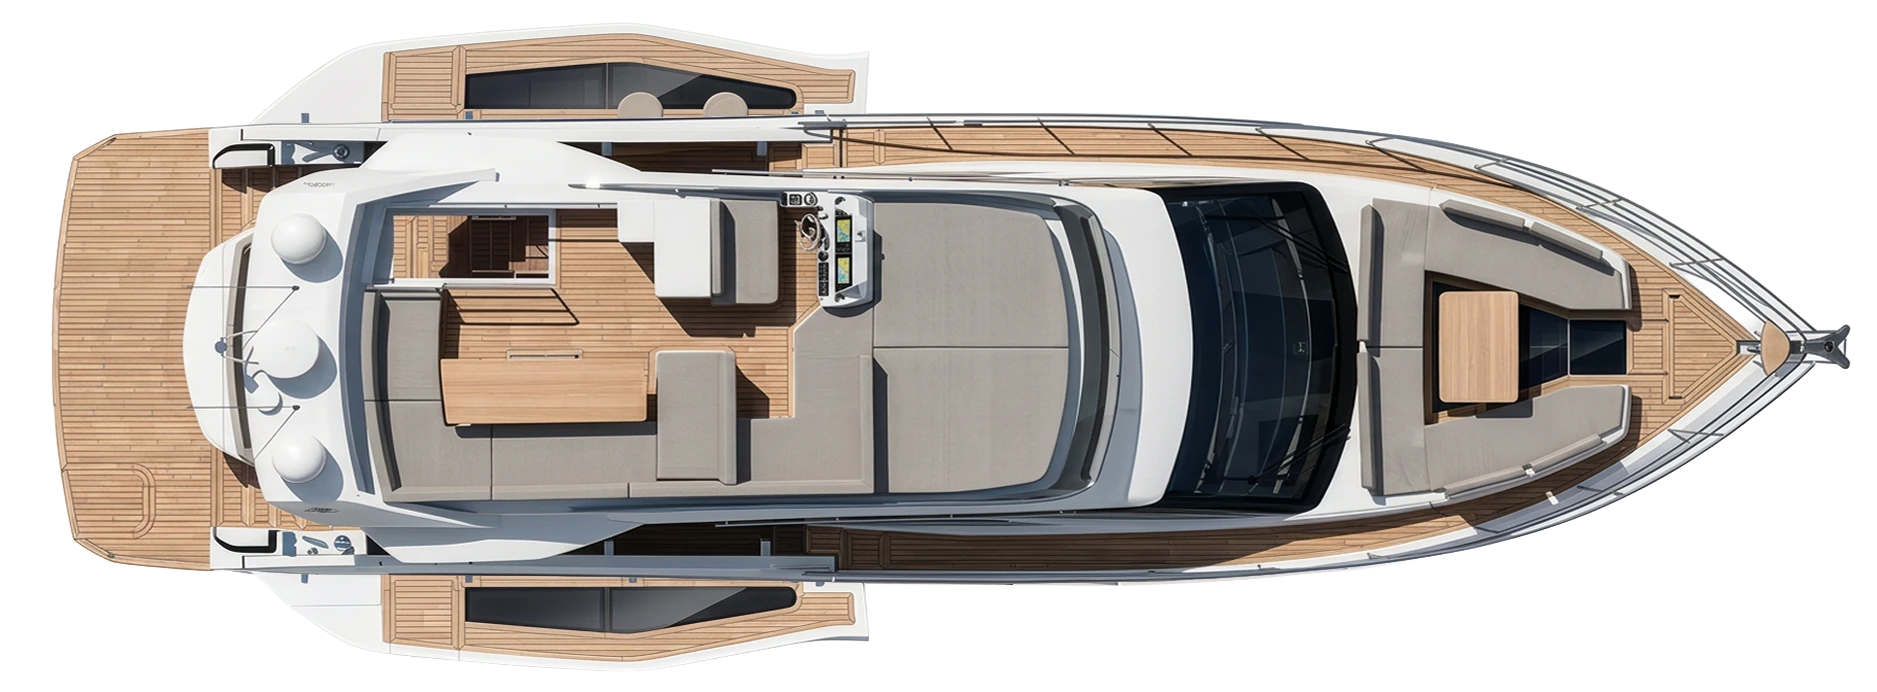
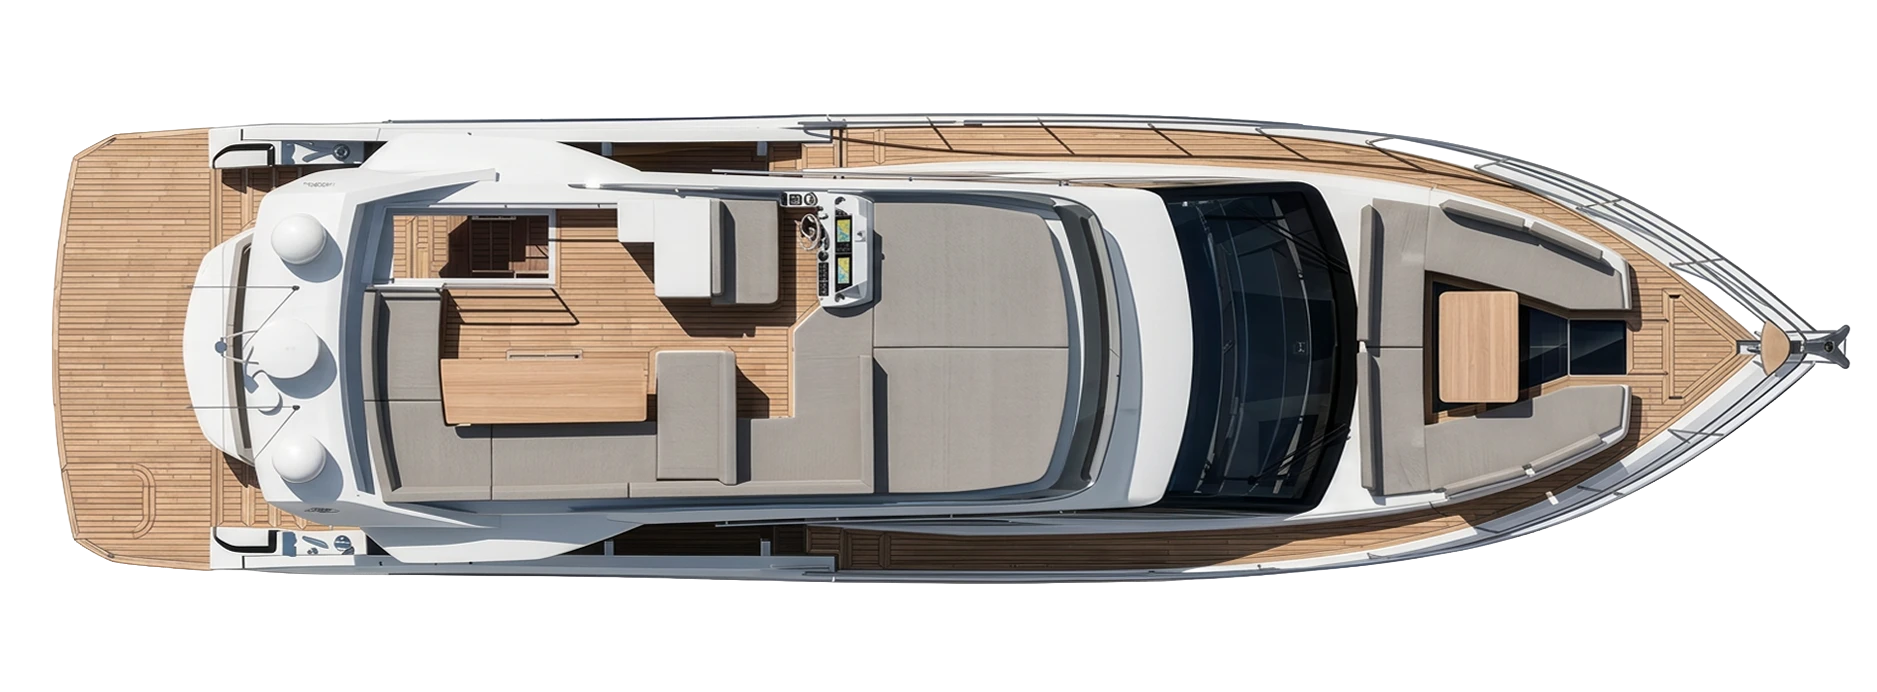
Cutaway: new flybridge plan (no side balconies); plan ~6% smaller

diff --git a/src/data/galeon-500-fly.js b/src/data/galeon-500-fly.js
@@ -51,7 +51,7 @@ export const galeon500Fly = {
         label: "Flybridge",
         src: "./assets/decks/flybridge.webp",
         alt: "Galeon 500 Fly flybridge, plan view from above",
-        visibleBounds: { x: 0.0272, y: 0.0318, width: 0.959, height: 0.9393 },
+        visibleBounds: { x: 0.0272, y: 0.1633, width: 0.959, height: 0.6806 },
       },
       {
         id: "main",
@@ -70,8 +70,8 @@ export const galeon500Fly = {
     ],
     // Optional per-model multiplier when a model's plans are drawn at another scale.
     // These renders fill their canvas more (hull 96% of the width vs 85% before):
-    // 0.89 keeps the plan the size the layout was tuned for.
-    displayScale: 0.89,
+    // 0.89 would keep the original tuned size; 0.84 is ~6% smaller on purpose.
+    displayScale: 0.84,
     tour: {
       provider: "giraffe360",
       url: "https://tour.giraffe360.com/4ca50bad22854f789486010bae9d4d35/",
